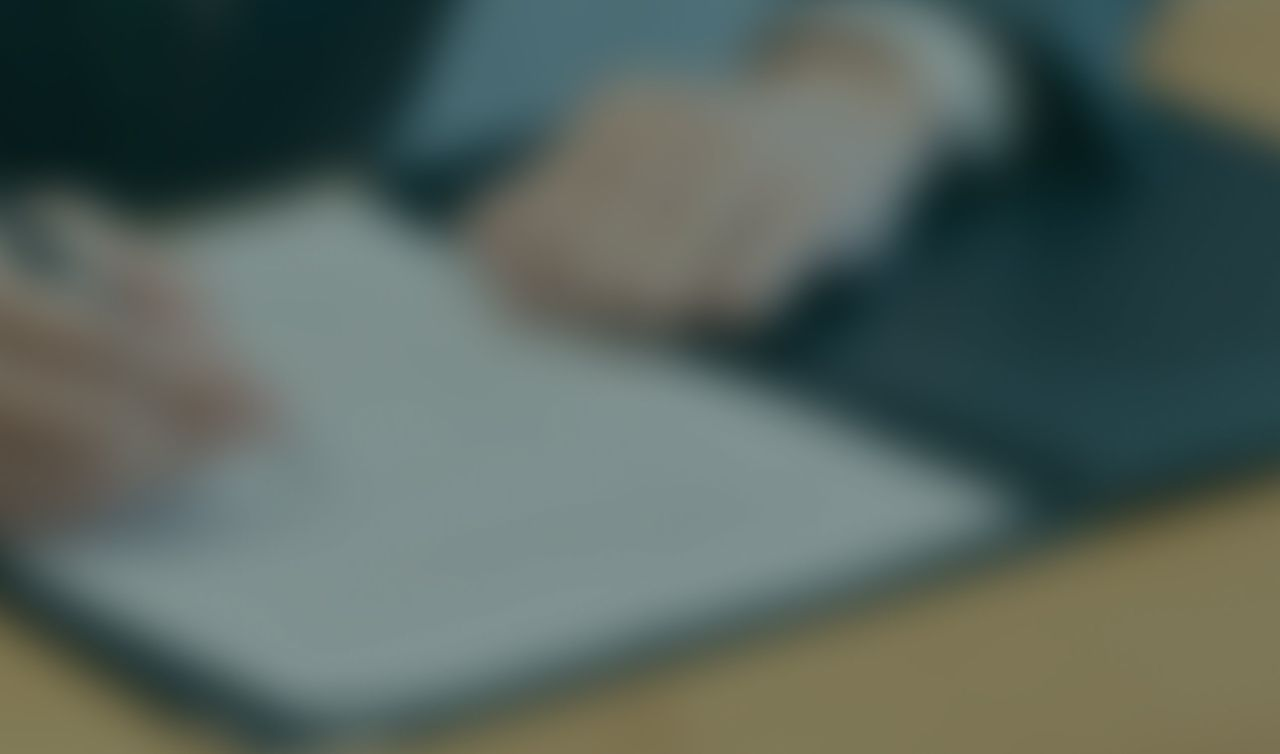
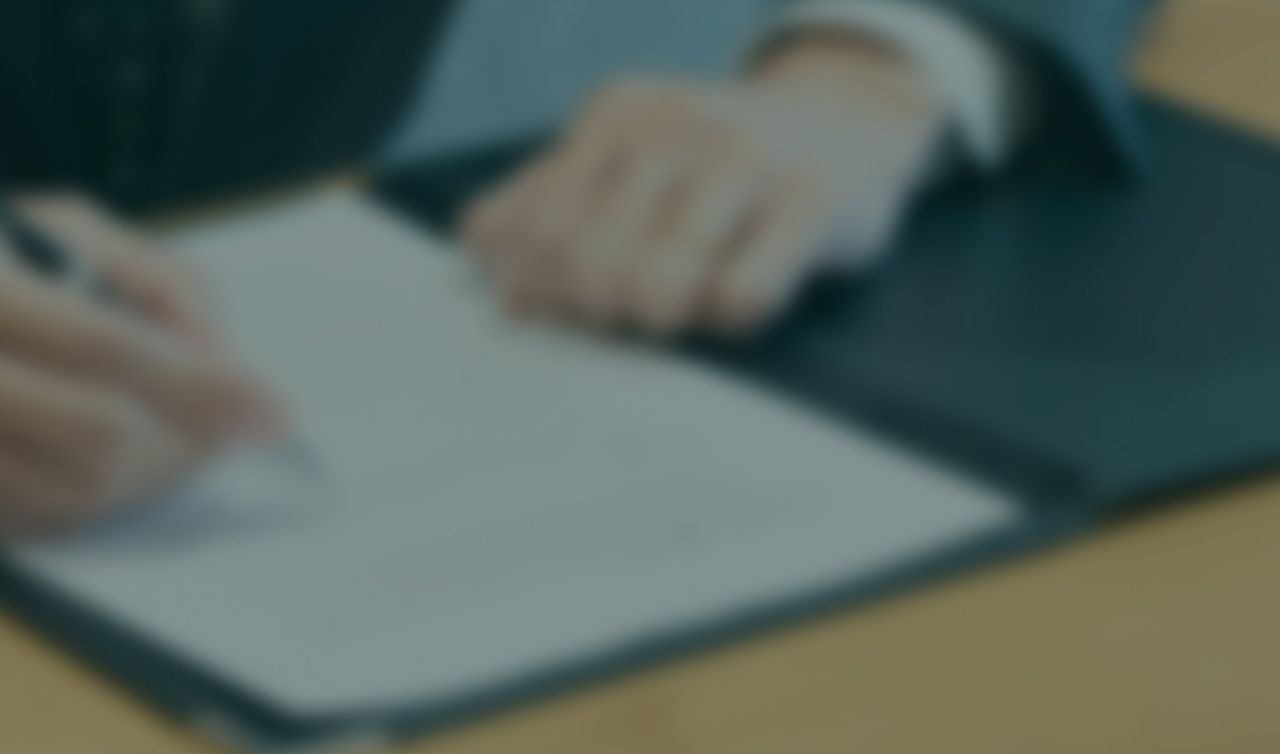
三つの強みの背景画像を差し替え
Claude-Session: https://claude.ai/code/session_01Y85FGXvahExxPTE8ZaAPoz

diff --git a/css/style.css b/css/style.css
@@ -273,10 +273,7 @@ a:hover .link-arrow__txt,
   transition: opacity 1s ease, transform 1.6s ease;
 }
 .strength__bgs img.is-active { opacity: 1; transform: scale(1); }
-.strength__bgs::after {  /* 文字を読みやすくするための薄い影 */
-  content: ""; position: absolute; inset: 0;
-  background: linear-gradient(90deg, rgba(6,28,30,.35) 0%, rgba(6,28,30,.15) 50%, rgba(6,28,30,.3) 100%);
-}
+/* 背景画像はあらかじめ暗く調整済みのため、重ねる影はなし */
 .strength__sticky {
   position: sticky; top: 0; z-index: 1;
   padding: var(--pad) 0;  /* 上下とも104px（SPは64px） */
